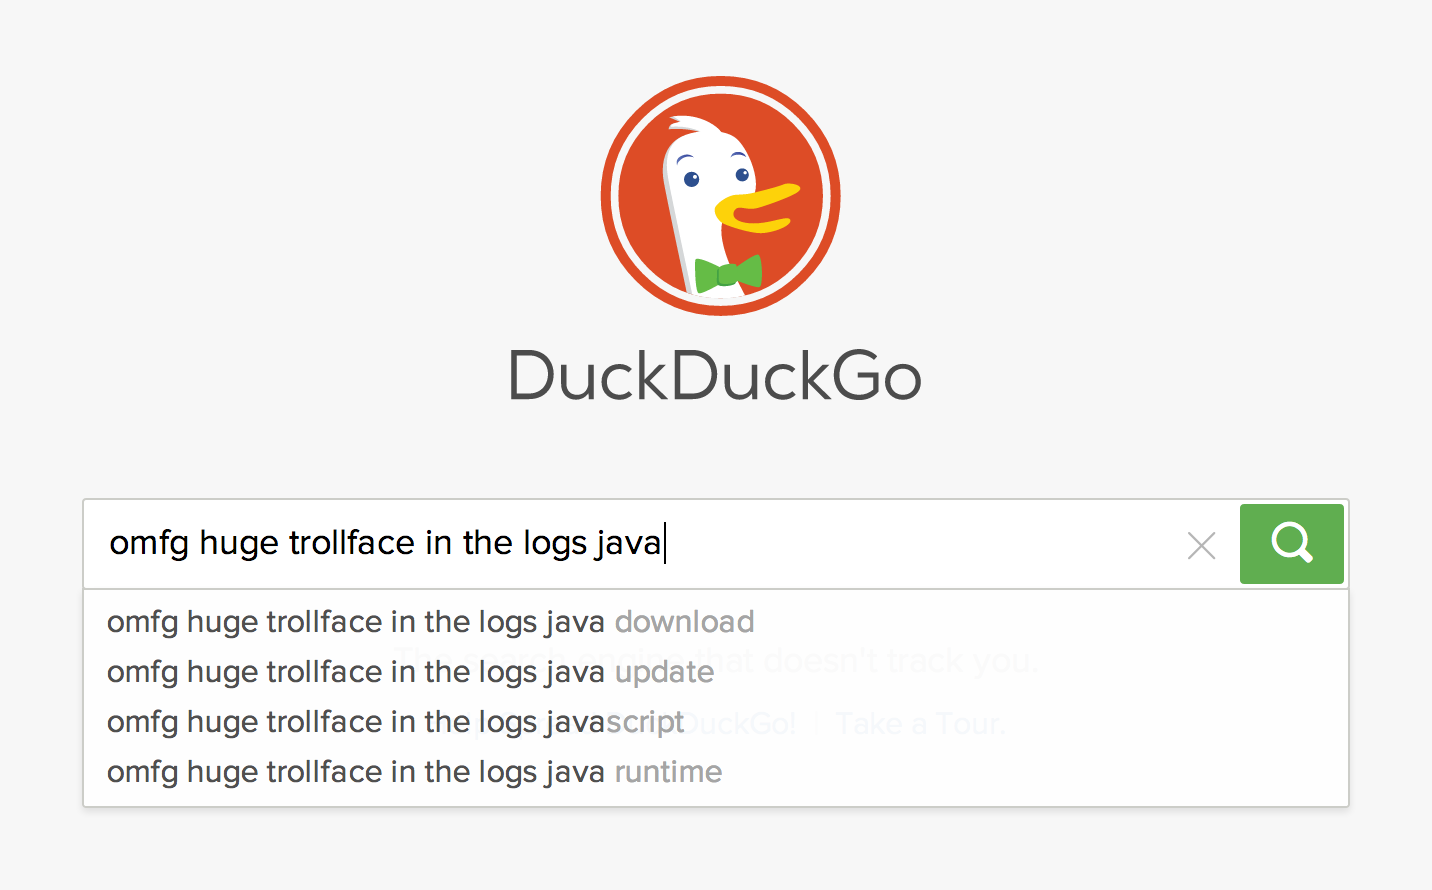
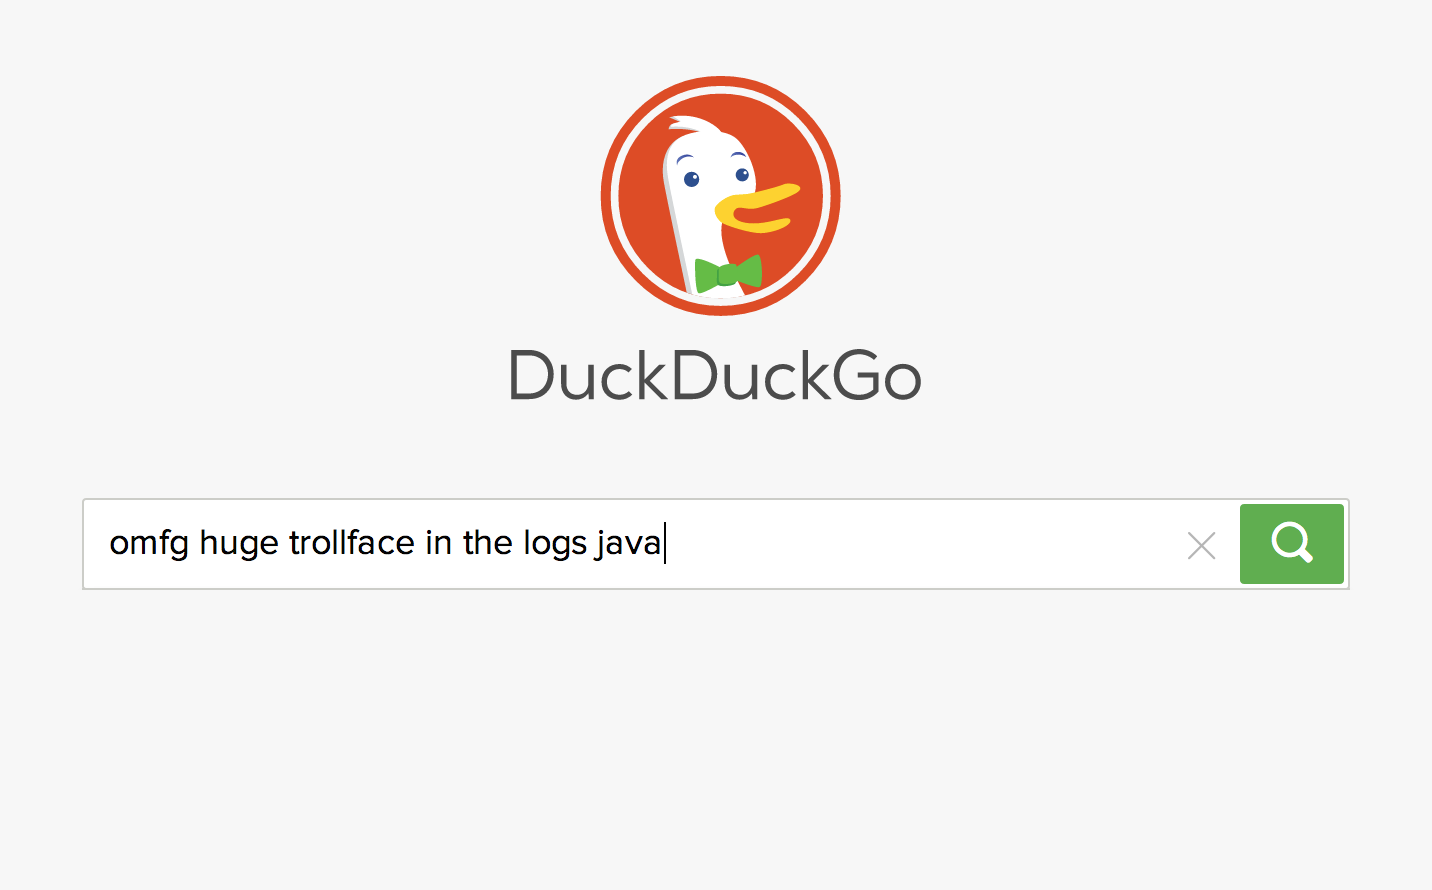
Updated mysterious intro

Changed region(s): [[0.0615, 0.6674, 0.5223, 0.9101], [0.4916, 0.2124, 0.5531, 0.273]]

diff --git a/presentations/java-mysterious-hotspot/jpoint-apr-2015.html b/presentations/java-mysterious-hotspot/jpoint-apr-2015.html
@@ -3,7 +3,7 @@
 <head>
     <meta charset="utf-8" />
 
-    <title>Ахаха, Hotspot, Что Ты Делаешь, Прекрати!</title>
+    <title>Тайны — в наших головах, а не в JVM</title>
 
     <link href="css/impress.css" rel="stylesheet"/>
     <link href="css/prettify.css" rel="stylesheet"/>
@@ -27,7 +27,7 @@
             </a>
 
             <p class="navbar-text">
-                ДАЙ_МНЕ_ИМЯ<span class="text-muted">by</span> <span class="text-info">@gvsmirnov</span>
+                Тайны — в наших головах, а не в JVM <span class="text-muted">by</span> <span class="text-info">@gvsmirnov</span>
             </p>
 
 
@@ -46,15 +46,14 @@
 
 <div id="impress">
 
-<div class="step step-title mad-duke" data-y="-800">
+<div class="step step-title mystery" data-y="-800">
     <div class="jumbotron text-center">
         <div class="title">
             <h1>
-                <span class="well well-sm">Дай</span>
+                <span class="well well-sm">Тайны — в наших головах</span>
             </h1>
             <h2>
-                <span class="well well-sm">Мне
-                Имя</span>
+                <span class="well well-sm">(а не в JVM)</span>
             </h2>
         </div>
 
@@ -62,7 +61,7 @@
         <p><span class="well well-sm">#jpoint #jugru</span></p>
 
         <footer>
-            <h2><span class="well well-sm">Gleb Smirnov</span></h2>
+            <h2><span class="well well-sm">Gleb Smirnov, Plumbr</span></h2>
             <h3><span class="well well-sm">me<span class="text-info">@gvsmirnov</span>.ru</span></h3>
         </footer>
 
@@ -72,44 +71,65 @@
 <!-- INTRO -->
 
 <div class="step step-slide">
+    <div class="text-v-center text-center text-giant">
+        <h1><img src="img/openjdk.png"/>
+            <br/><span data-jmpress="fade">&approx; <strong>5.5M</strong> строк </span>
+            <br/><span data-jmpress="fade"><strong>сотни тысяч</strong> человеко-часов</span>
+        </h1>
+
+        <!-- http://openjdk.java.net/groups/hotspot/ -->
+        <!-- https://www.openhub.net/p/openjdk/analyses/latest/languages_summary -->
+    </div>
+</div>
+
+<div class="step step-slide" data-x="1300">
+    <h1>Большая и сложная система</h1>
+    <ul>
+        <li data-jmpress="fade">Один человек не может знать о JVM всё</li>
+        <li data-jmpress="fade">Абстракции будут протекать</li>
+        <li data-jmpress="fade">Будут возникать неожиданные ситуации</li>
+    </ul>
+</div>
+
+<div class="step step-slide" data-x="2600">
     <div class="text-center">
         <img class="graph scale-to-fit-h" src="img/trollface.png"/>
     </div>
 </div>
 
-<div class="step step-slide" data-x="1300">
+<div class="step step-slide" data-x="3900">
     <div class="text-center">
         <img class="graph scale-to-fit-h" src="img/duckduckgo.png"/>
     </div>
 </div>
 
-<div class="step step-slide" data-x="2600">
-    <div class="text-center">
-        <img class="graph" src="img/stackoverflow.png"/>
-    </div>
-</div>
-
-<div class="step step-slide spoiler" data-x="2600">
-    <div class="text-center">
-        <img class="graph" src="img/stackoverflow-2.png"/>
-    </div>
-</div>
-
-<div class="step step-slide" data-x="3900">
-    <div class="text-center">
-        <img class="graph" src="img/twitter.png"/>
-    </div>
-</div>
-
 <div class="step step-slide spoiler" data-x="3900">
     <div class="text-center">
-        <img class="graph" src="img/twitter-2.png"/>
+        <img class="graph scale-to-fit-h" src="img/duckduckgo-2.png"/>
     </div>
 </div>
 
 <div class="step step-slide" data-x="5200">
     <div class="text-center">
-        <img class="graph scale-to-fit-h" src="img/okay.png"/>
+        <img class="graph" src="img/stackoverflow.png"/>
+    </div>
+</div>
+
+<div class="step step-slide spoiler" data-x="5200">
+    <div class="text-center">
+        <img class="graph" src="img/stackoverflow-2.png"/>
+    </div>
+</div>
+
+<div class="step step-slide" data-x="6500">
+    <div class="text-center">
+        <img class="graph" src="img/twitter.png"/>
+    </div>
+</div>
+
+<div class="step step-slide spoiler" data-x="6500">
+    <div class="text-center">
+        <img class="graph" src="img/twitter-2.png"/>
     </div>
 </div>
 

diff --git a/presentations/java-mysterious-hotspot/css/impress.css b/presentations/java-mysterious-hotspot/css/impress.css
@@ -299,3 +299,7 @@ ul.legend li {
 .mad-duke {
     background-image: url("../img/duke-madness.png");
 }
+
+.mystery {
+    background-image: url("../img/mystery.jpg");
+}
